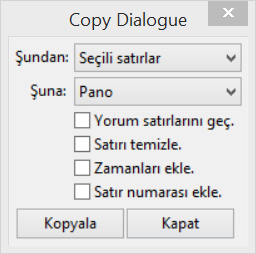
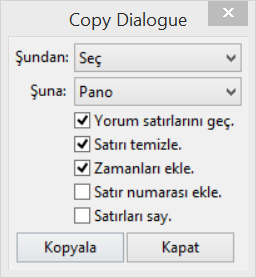
1.3.3

Changed region(s): [[0.0312, 0.0276, 0.9688, 0.9646], [0.8125, 0.0276, 0.9688, 0.1102]]

diff --git a/README.md b/README.md
@@ -166,6 +166,17 @@ Herhangi bir arayüzde yaptığınız ayar diğer bir arayüzde de bulunuyorsa s
 ### [Copy Dialogue](automation/autoload/mag.copy_dialogue.lua)
 Alt yazıdaki metinleri panoya veya oluşturduğu metin dosyasına kopyalar.
 
+* **Normal:** 82. satırdaki örnek bir cümle.
+* **Zamanları ekle:** [0:06:15.25(8997) / 0:06:16.66(9031)] Ne yapsam acaba?
+* **Satır numarası ekle:** [82 - 0:06:15.25(8997) / 0:06:16.66(9031)] 82. satırdaki örnek bir cümle.
+* **Satırları say:** [1 / 82 - 0:06:15.25(8997) / 0:06:16.66(9031)] 82. satırdaki örnek bir cümle.
+
+---
+
+* **Uygulanan satırlar:** Tüm stillere, ayrı ayrı stillere veya seçili satırlara uygular. Ayrı ayrı uyguladığı stiller Style Manager'de kayıtlı ve o stile sahip satırlar varsa listeler.
+* **Arayüz hafızası:** Her açılan dosya kapanana kadar geçen sürede tercihler hafızada tutulur. Bir dosyada yapılan tercih, aynı anda açılsa bile diğer bir dosyaya yansımaz. Uygulanan satırların tercih yapıldığı alan dışında diğer tüm tercihler hafızada tutulur.
+* **Modül:** Modülün var olup olmadığını ve varsa da istenilen sürüm olup olmadığını kontrol eder. Her şey istenildiği gibiyse lua dosyasını çalıştırır.
+
 ### [Finder](automation/autoload/mag.finder.lua)
 Yorum parantezlerine veya girilen kelimeye göre listeleme yapar. Listeledikleri arasında geçiş de yapabilir.
 
